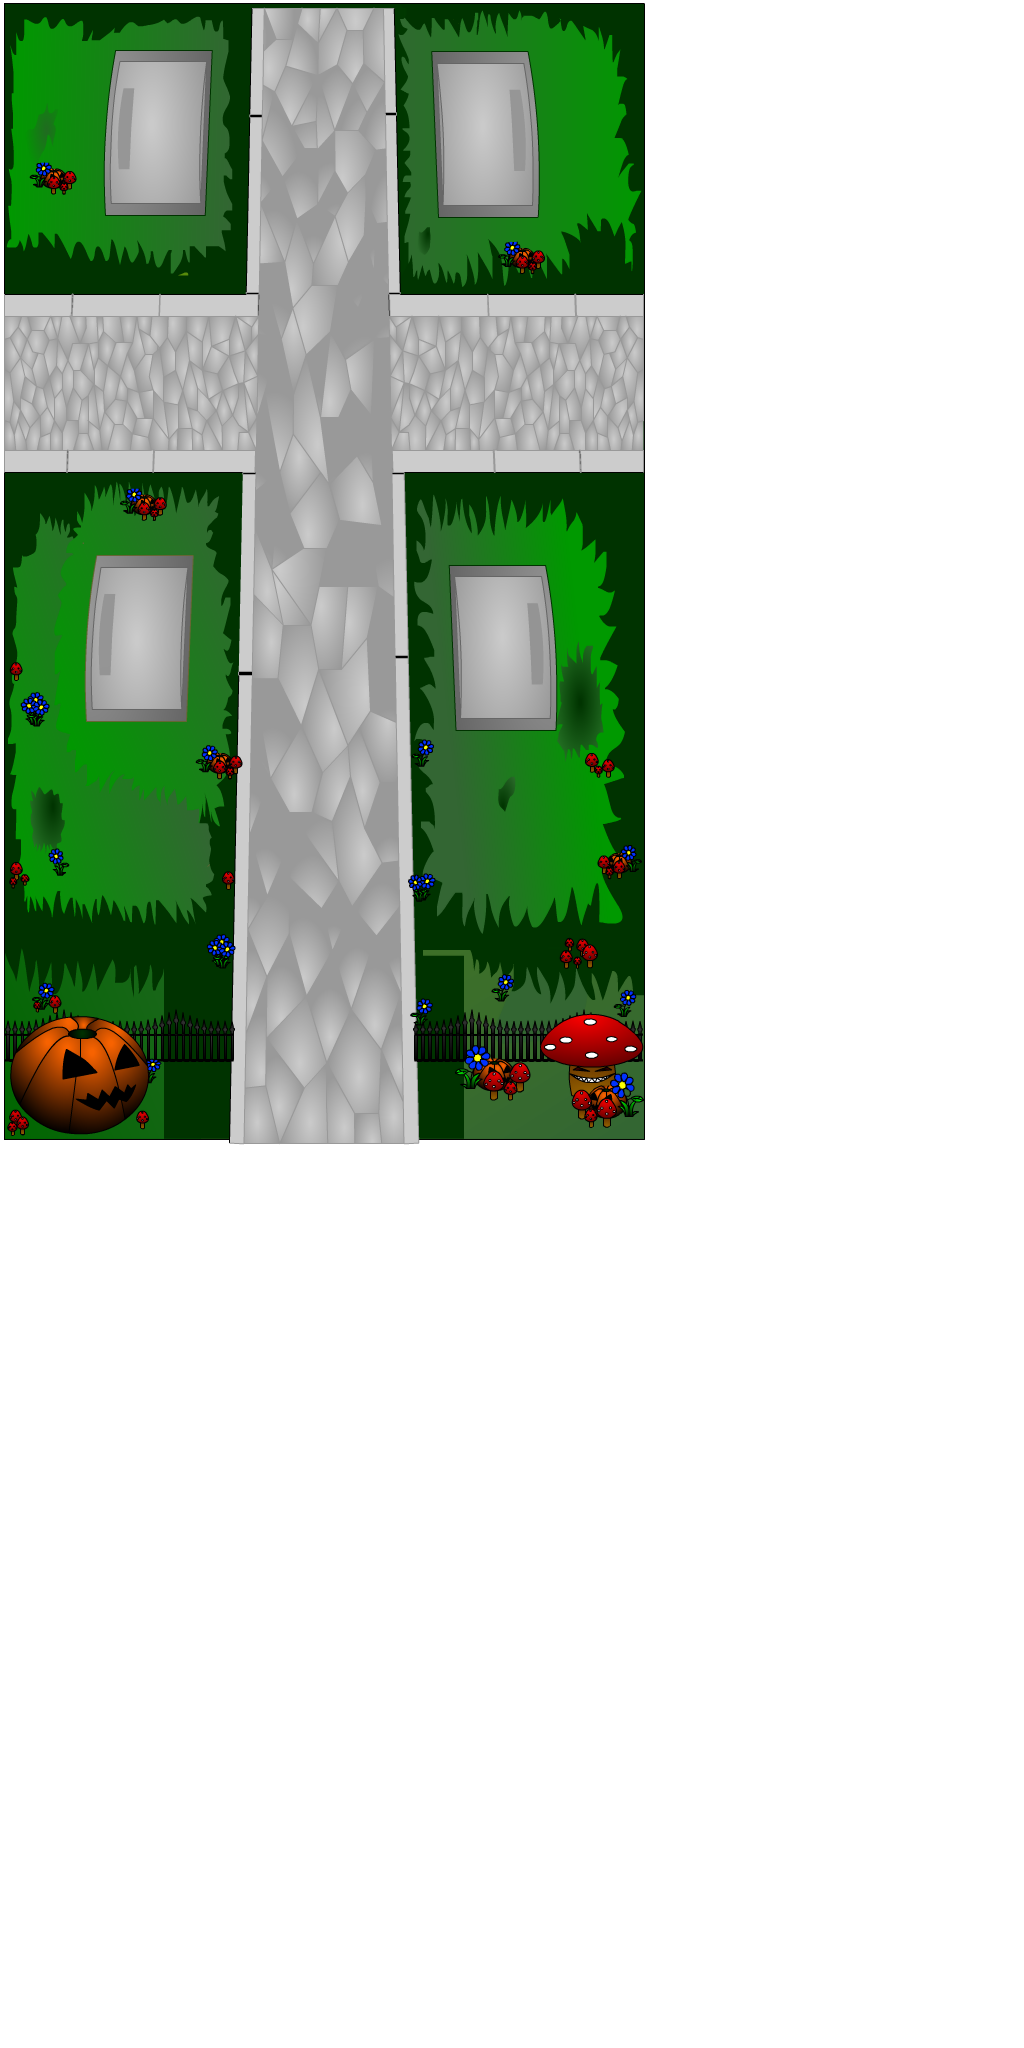
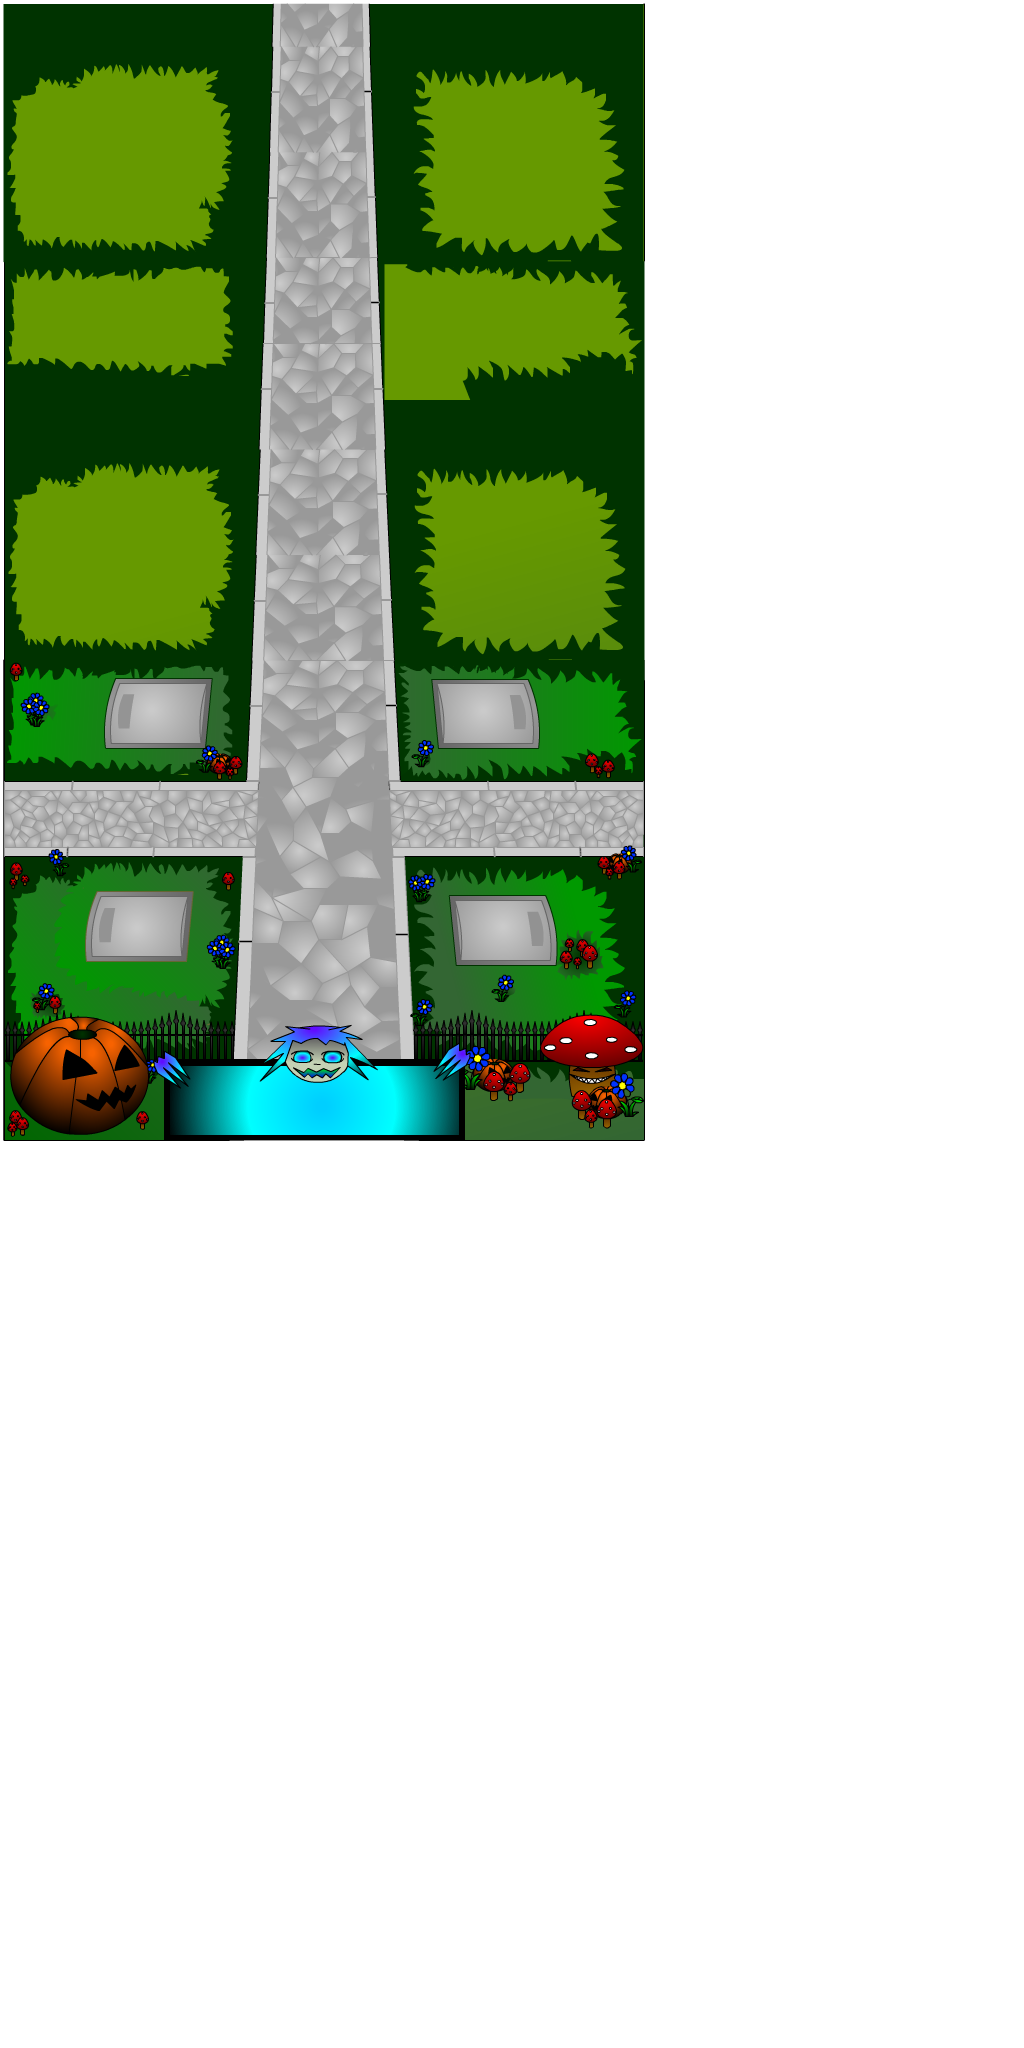
wip

Changed region(s): [[0.0, 0.0, 0.6562, 0.5625]]

diff --git a/src/view/BottomPanel.js b/src/view/BottomPanel.js
@@ -27,34 +27,42 @@ export class BottomPanel extends PIXI.Container {
 
     let trapTexture = PIXI.utils.TextureCache['../assets/trab_back.png'];
 
-    const oneTrapBtn = new Button(trapTexture, trapTexture, trapTexture);
-    oneTrapBtn.position.set(50, 35);
+    const oneTrapBtn = new Button(
+      PIXI.Texture.fromImage('Cross_btn0000'),
+      PIXI.Texture.fromImage('Cross_btn0001'),
+      PIXI.Texture.fromImage('Cross_btn0002'),
+    );
+    oneTrapBtn.position.set(170, 55);
     this.addChild(oneTrapBtn);
     oneTrapBtn.pointerdown = evt => {
       this.payTrap(types.cross, evt);
     };
 
-    const rakeSprite = new PIXI.Sprite(PIXI.Texture.fromImage('Cross_mc0000'));
-    rakeSprite.anchor.set(0.5, 0.5);
-    rakeSprite.position.set(oneTrapBtn.width * 0.5, oneTrapBtn.height * 0.5);
-    oneTrapBtn.addChild(rakeSprite);
-
-    const twoTrapBtn = new Button(trapTexture, trapTexture, trapTexture);
-    twoTrapBtn.position.set(155, 35);
+    const twoTrapBtn = new Button(
+      PIXI.Texture.fromImage('Pumpkin_btn0000'),
+      PIXI.Texture.fromImage('Pumpkin_btn0001'),
+      PIXI.Texture.fromImage('Pumpkin_btn0002'),
+    );
+    twoTrapBtn.position.set(170 + 50, 55);
     this.addChild(twoTrapBtn);
     twoTrapBtn.pointerdown = evt => {
       this.payTrap(types.pumpkin, evt);
     };
 
-    const sheepSprite = new PIXI.Sprite(
+    /* const sheepSprite = new PIXI.Sprite(
       PIXI.Texture.fromImage('Pumpkin_mc0000'),
     );
+    //sheepSprite.scale.set(2);
     sheepSprite.anchor.set(0.5, 0.5);
     sheepSprite.position.set(twoTrapBtn.width * 0.5, twoTrapBtn.height * 0.5);
-    twoTrapBtn.addChild(sheepSprite);
+    twoTrapBtn.addChild(sheepSprite);*/
 
-    const threeTrapBtn = new Button(trapTexture, trapTexture, trapTexture);
-    threeTrapBtn.position.set(255, 35);
+    const threeTrapBtn = new Button(
+      PIXI.Texture.fromImage('Stone_btn0000'),
+      PIXI.Texture.fromImage('Stone_btn0001'),
+      PIXI.Texture.fromImage('Stone_btn0002'),
+    );
+    threeTrapBtn.position.set(270, 55);
     this.addChild(threeTrapBtn);
 
     const stoneSprite = new PIXI.Sprite(PIXI.Texture.fromImage('Stone_mc0000'));
@@ -68,6 +76,19 @@ export class BottomPanel extends PIXI.Container {
       this.payTrap(types.stone, evt);
     };
 
+    // FairyMenBtn0164
+
+    // FOUR
+    const fairySprite = new PIXI.extras.AnimatedSprite(
+      getTexture('FairyMenBtn'),
+    );
+    fairySprite.anchor.set(0.5, 0.5);
+    fairySprite.position.set(550, 55);
+    this.addChild(fairySprite);
+    fairySprite.pointerdown = evt => {
+      this.payTrap(types.stone, evt);
+    };
+    fairySprite.gotoAndPlay(0);
     eventEmitter.on(EVENTS.UPDATE_GOLD, evt => {
       this.coinsTf.text = evt.gold;
     });
@@ -75,15 +96,6 @@ export class BottomPanel extends PIXI.Container {
     eventEmitter.on(EVENTS.UPDATE_HEALTH, evt => {
       this.healtTf.text = evt.health;
     });
-  }
-
-  createRectangleButton() {
-    const graphics = new PIXI.Graphics();
-    graphics.beginFill(0xffffff);
-    graphics.drawRect(0, 0, 80, 80);
-    graphics.endFill();
-
-    return graphics;
   }
 
   payTrap(type, evt) {
@@ -98,4 +110,19 @@ export class BottomPanel extends PIXI.Container {
       price: price[type],
     });
   }
+}
+
+const Names = {
+  FairyMenBtn: 164,
+};
+
+//
+function getTexture(type) {
+  const textureArray = [];
+  for (let i = 0; i < Names[type]; i++) {
+    const textureName = `${type}${'0000'.substr(`${i}`.length)}${i}`;
+    textureArray.push(PIXI.Texture.from(textureName));
+  }
+
+  return textureArray;
 }

diff --git a/src/App.js b/src/App.js
@@ -77,7 +77,7 @@ export class App {
 
       .add('../assets/back.json')
       .add('../assets/LevelCemetery.json')
-
+      .add('../assets/TrapButtons.json')
       .add('../assets/Cross.json')
       .add('../assets/Cross_effect.json')
       .add('../assets/Pumpkin.json')

diff --git a/src/view/Game.js b/src/view/Game.js
@@ -13,7 +13,7 @@ export class Game extends PIXI.Container {
   constructor() {
     super();
 
-    const bg = new PIXI.Sprite(PIXI.Texture.fromImage('LevelCemetery'));
+    const bg = new PIXI.Sprite(PIXI.Texture.fromImage('LevelCemetery_mc0000'));
 
     this.addChild(bg);
 
